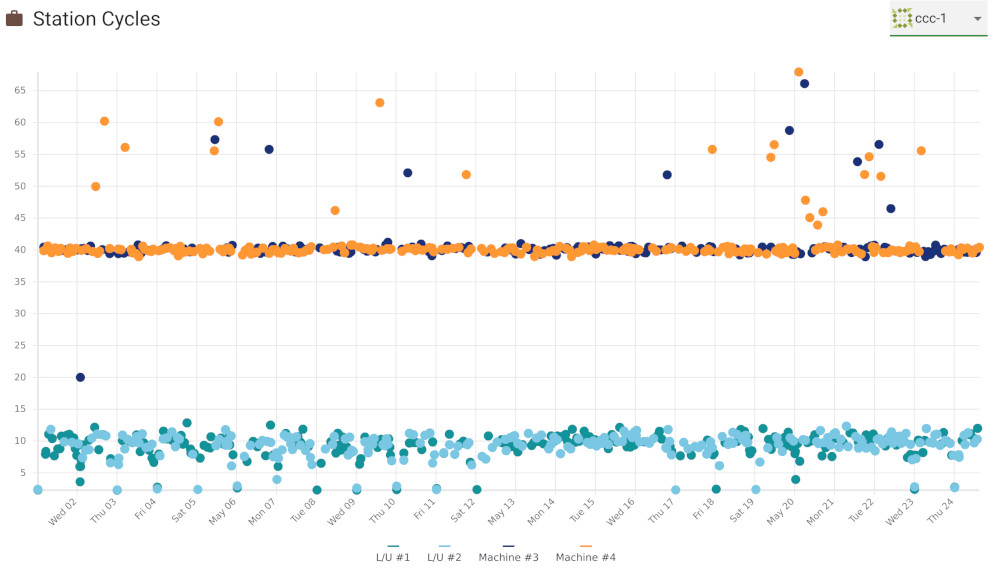
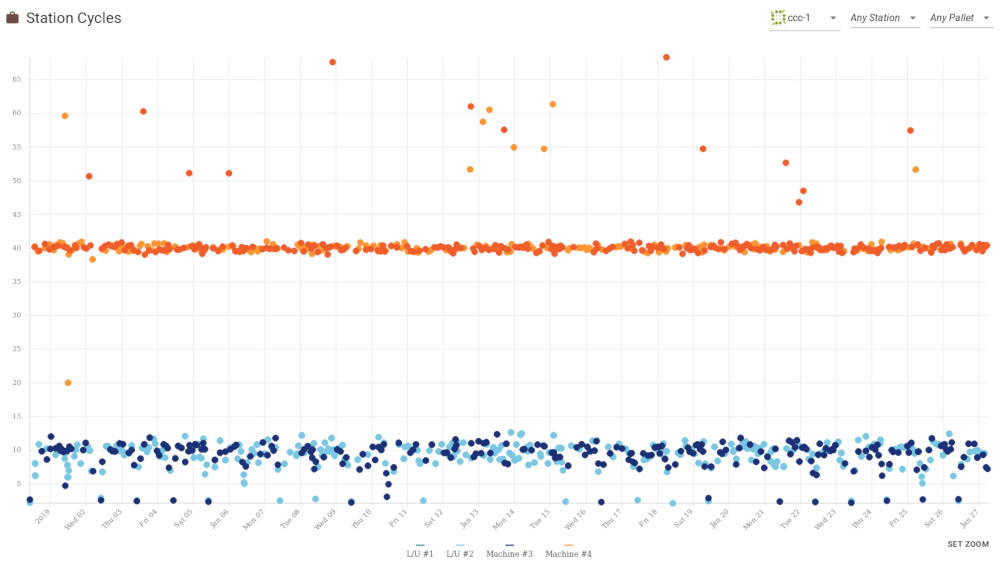
docs: update cycle chart efficiency docs

diff --git a/docs/client-efficiency.md b/docs/client-efficiency.md
@@ -19,15 +19,18 @@ efficiency calculations.
 
 ![Screenshot of station cycle chart](assets/insight-station-cycle.jpg)
 
-Select a part from the combo box in the top-right. Once selected, all load
-and machine cycles for the part will be displayed. The x-axis is the days of
-the month and the y-axis is cycle time in minutes. The cycle time is the wall
-clock time between cycle start and cycle end of the machine or the wall clock
-time between a pallet arriving at the load station to the pallet leaving the
-load station. The legend at the bottom shows which colors correspond to which
-stations, and by clicking on stations in the legend you can enable or
-disable the viewing of specific stations. Finally, by clicking on a point you
-can obtain details about that specific cycle in a tooltip.
+The station cycle chart displays a point for each load and machine cycle. The
+cycles can be filtered by a specific part, a specific machine, a specific
+pallet or a combination. The x-axis is the days of the month and the y-axis
+is cycle time in minutes. The cycle time is the wall clock time between cycle
+start and cycle end of the machine or the wall clock time between a pallet
+arriving at the load station to the pallet leaving the load station. The
+legend at the bottom shows which colors correspond to which stations, and by
+clicking on stations in the legend you can enable or disable the viewing of
+specific stations. By clicking on a point you can obtain details about that
+specific cycle in a tooltip and open the material card for the cycle.
+Finally, the chart can be zoomed by clicking and dragging or by manually
+setting the zoom range via the button in the bottom-right corner.
 
 The example screenshot above is an example of a part program which might need
 improvement. We see that most of the machine cycles are fine at around 40
@@ -38,9 +41,9 @@ program. On the other hand, if there were only a couple of machine cycles
 longer than 40 minutes, we might instead conclude that it is not worth the
 effort to spend a large amount of time focusing on this part. Finally, the
 load station cycles seem consistent at between 5 and 15 minutes so likely no
-improvements are required at the load station.  If instead there were a
+improvements are required at the load station. If instead there were a
 large number of outlier load/unload times, we might spend some time investigating
-and potentially making operational changes.  By periodically viewing this
+and potentially making operational changes. By periodically viewing this
 cycle chart for each part, you can get a feel for your specific system
 and iteratively detect and fix problems.
 
@@ -53,24 +56,26 @@ pallet cycles are displayed. The x-axis is the days of the month and the
 y-axis is the pallet cycle time in minutes. A pallet cycle time is the wall
 clock time from when a pallet leaves the load station to the next time it
 leaves the load station. This will therefore include cart transfer time,
-buffer time, machining time, and load/unload time.  By clicking on a point, you
-can obtain more information about the pallet cycle in a tooltip.
+buffer time, machining time, and load/unload time. By clicking on a point,
+you can obtain more information about the pallet cycle in a tooltip.
+Similarly to the station cycle chart, the pallet cycle chart can be zoomed by
+clicking and dragging or the zoom range can be manually set via the button in
+the bottom-right.
 
 ## Station OEE
 
 ![Screenshot of Station OEE Heatmap](assets/insight-station-oee.jpg)
 
 The Station OEE heatmap shows the station overall equipment effectiveness (OEE)
-over the month.  On the x-axis are the days of the month and on the y-axis are
-the machines and load stations.  For each station and each day, FMS Insight adds
+over the month. On the x-axis are the days of the month and on the y-axis are
+the machines and load stations. For each station and each day, FMS Insight adds
 up the expected operation time for each part cycle and then divides by 24 hours
-to obtain a percentage that the station was busy with productive work.  (If station cycles
-were longer than expected, this extra time is not counted in the OEE.  Thus the Station OEE
+to obtain a percentage that the station was busy with productive work. (If station cycles
+were longer than expected, this extra time is not counted in the OEE. Thus the Station OEE
 should only be focused on seriously once the station cycles are mostly stable at their
-expected cycle time.)  For each grid cell in the chart, the OEE percentage is drawn
-with a color with darker colors higher OEE and lighter colors lower OEE.  A grid cell
+expected cycle time.) For each grid cell in the chart, the OEE percentage is drawn
+with a color with darker colors higher OEE and lighter colors lower OEE. A grid cell
 can be moused over to obtain extra information in a tooltip.
-
 
 ## Part Production
 
@@ -85,19 +90,19 @@ counts. A grid cell can be moused over to obtain extra information in a
 tooltip.
 
 The part production and station OEE heatmaps are useful to brainstorm potential
-flexibility changes.  For example, the above station OEE screenshot shows that
-machines 3 and 4 have higher OEE than machines 1 and 2.  As long as station cycles
+flexibility changes. For example, the above station OEE screenshot shows that
+machines 3 and 4 have higher OEE than machines 1 and 2. As long as station cycles
 are stable around their expected time, this likely reflects that not enough pallets
-and parts are routed to machines 1 and 2.  Looking at the part production heatmap,
+and parts are routed to machines 1 and 2. Looking at the part production heatmap,
 some of the darker parts might be candidates to be expanded to include machines 1 and 2.
 Indeed, in the scenario which produced the screenshot, part `yyy` was routed only
 to machines 3 and 4 and we can see from the part heatmap that it has large production.
 We could therefore brainstorm that part `yyy` could be expanded to also include machine 2.
 
-Note that these heatmaps should only be used to brainstorm ideas.  We would still
+Note that these heatmaps should only be used to brainstorm ideas. We would still
 to investigate if expanding `yyy` to include machine 2 would increase overall
-system performance.  Are there enough pallets?  How many extra inspections are required?
-Will this cause a traffic jam?  These questions can be answered using simulation,
+system performance. Are there enough pallets? How many extra inspections are required?
+Will this cause a traffic jam? These questions can be answered using simulation,
 Little's Law, or a tool such as our [SeedTactic: Planning](https://www.seedtactics.com/products/seedtactic-planning).
 
 ## Inspections
@@ -116,7 +121,7 @@ Any link can be moused over to obtain additional information in a tooltip.
 
 For example, in the above screenshot, one path is to use pallet 1 and machine
 1 (P1,M1) for the first sequence and then pallet 1 and machine 2 for the
-second sequence (P1,M2).  This corresponds to the large top link between `raw`
+second sequence (P1,M2). This corresponds to the large top link between `raw`
 and `P1,M1` and then the downward-curved link between "P1,M1" on the left and
 `P1,M2` on the right. The path is then further split with uninspected parts
 and successfully inspected parts.
@@ -127,5 +132,5 @@ sequence, parts either go to `P1,M1` meaning they return to machine 1 for
 their second sequence or they go to `P1,M2` meaning the go to machine 2 for
 their second sequence. The relative widths of the bars show that this is
 about equal but slightly more parts return back to machine 1 for their second
-sequence.  Similarly, the width of the links going to `uninspected` and `success`
+sequence. Similarly, the width of the links going to `uninspected` and `success`
 show that most parts are not inspected while a few are inspected successfully.
